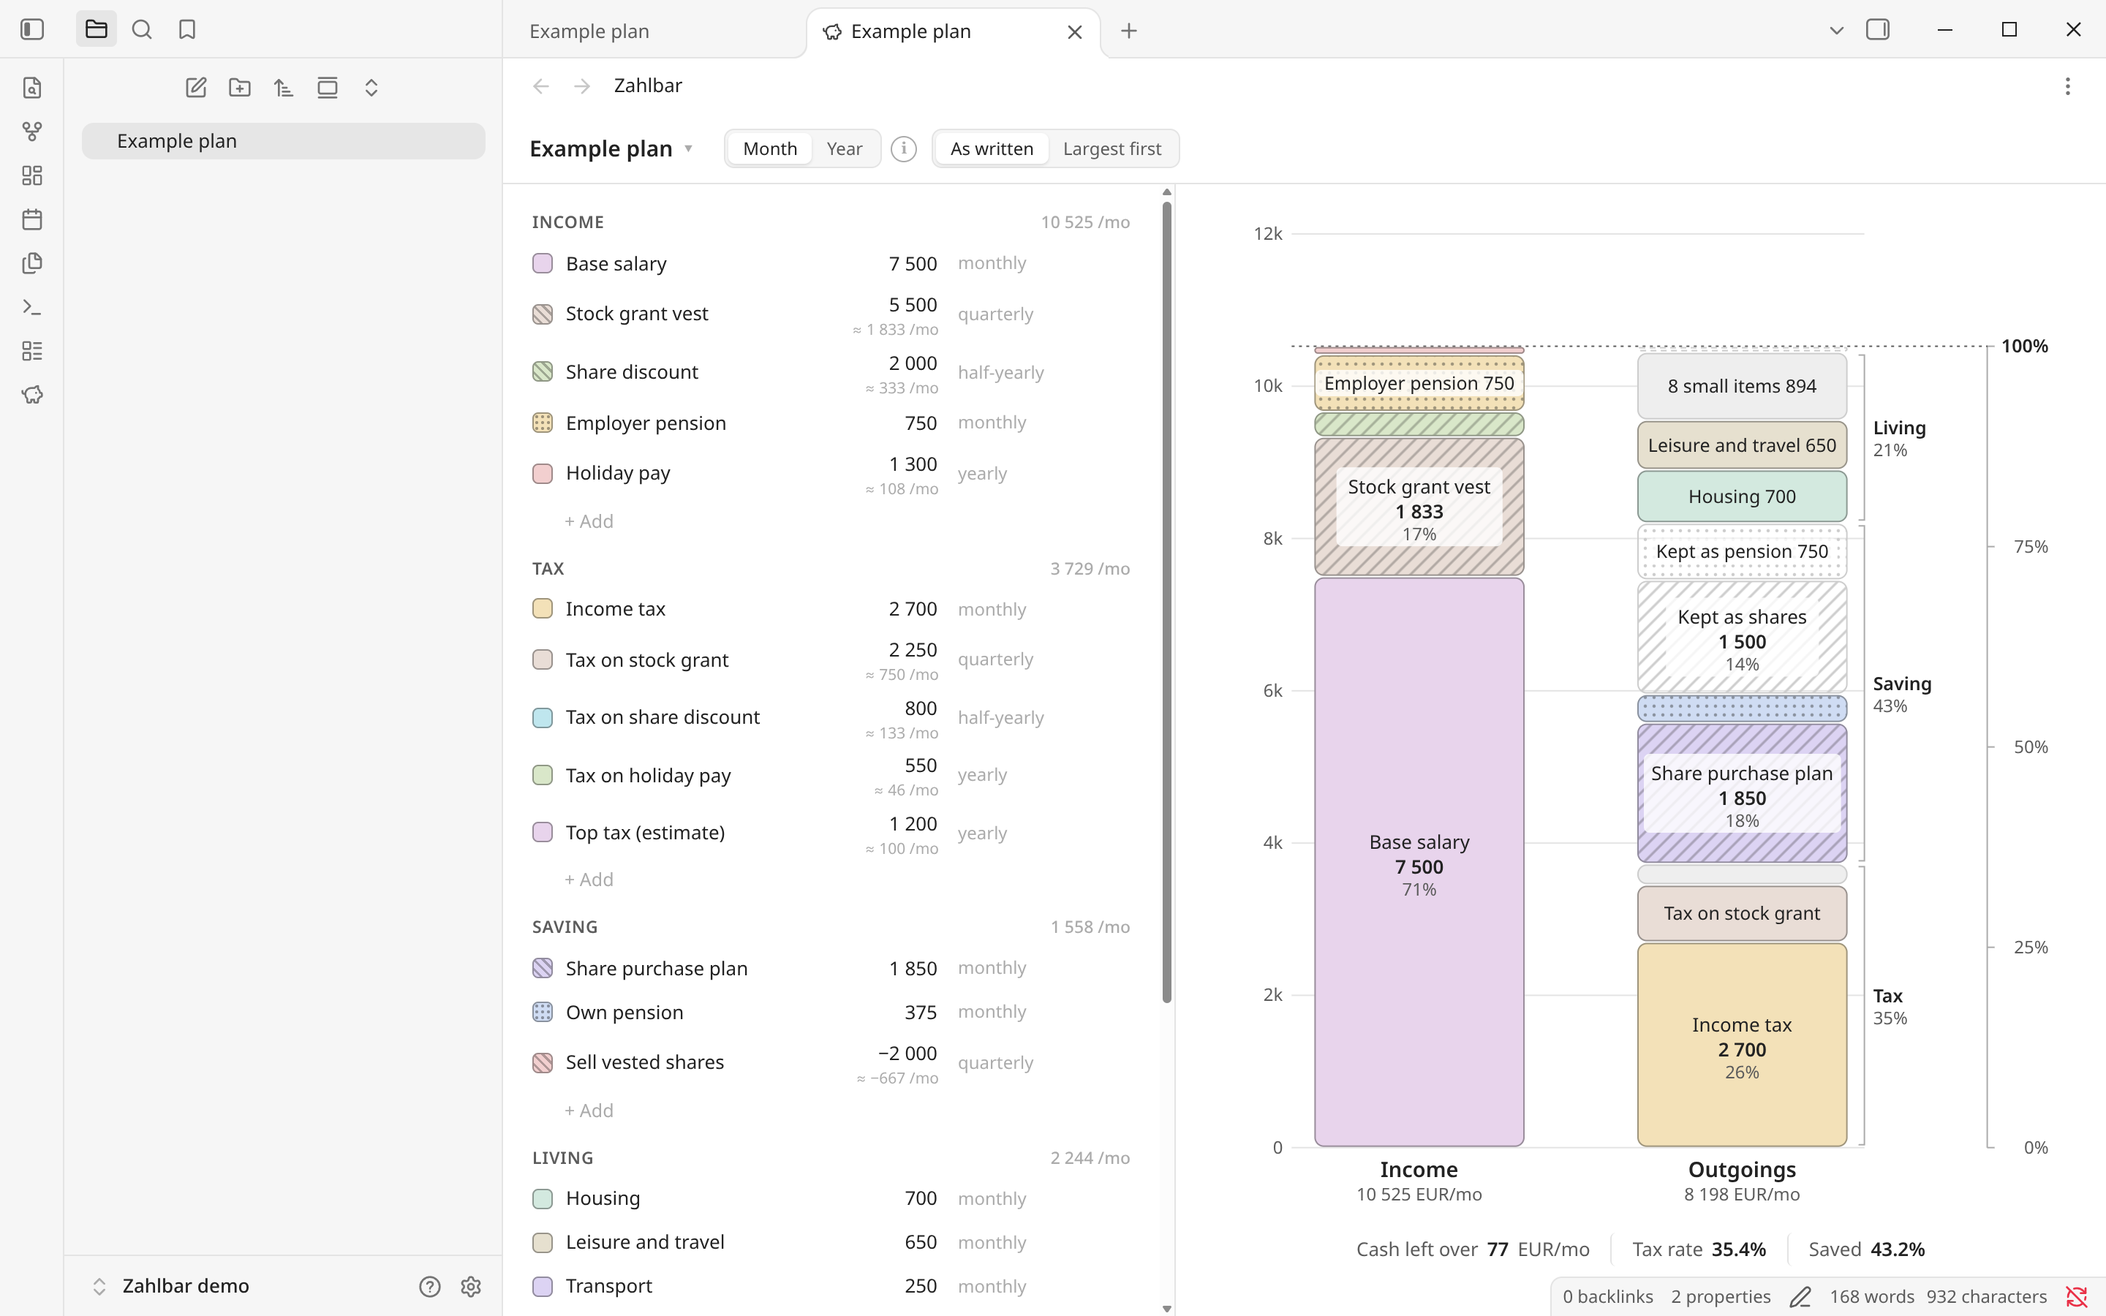
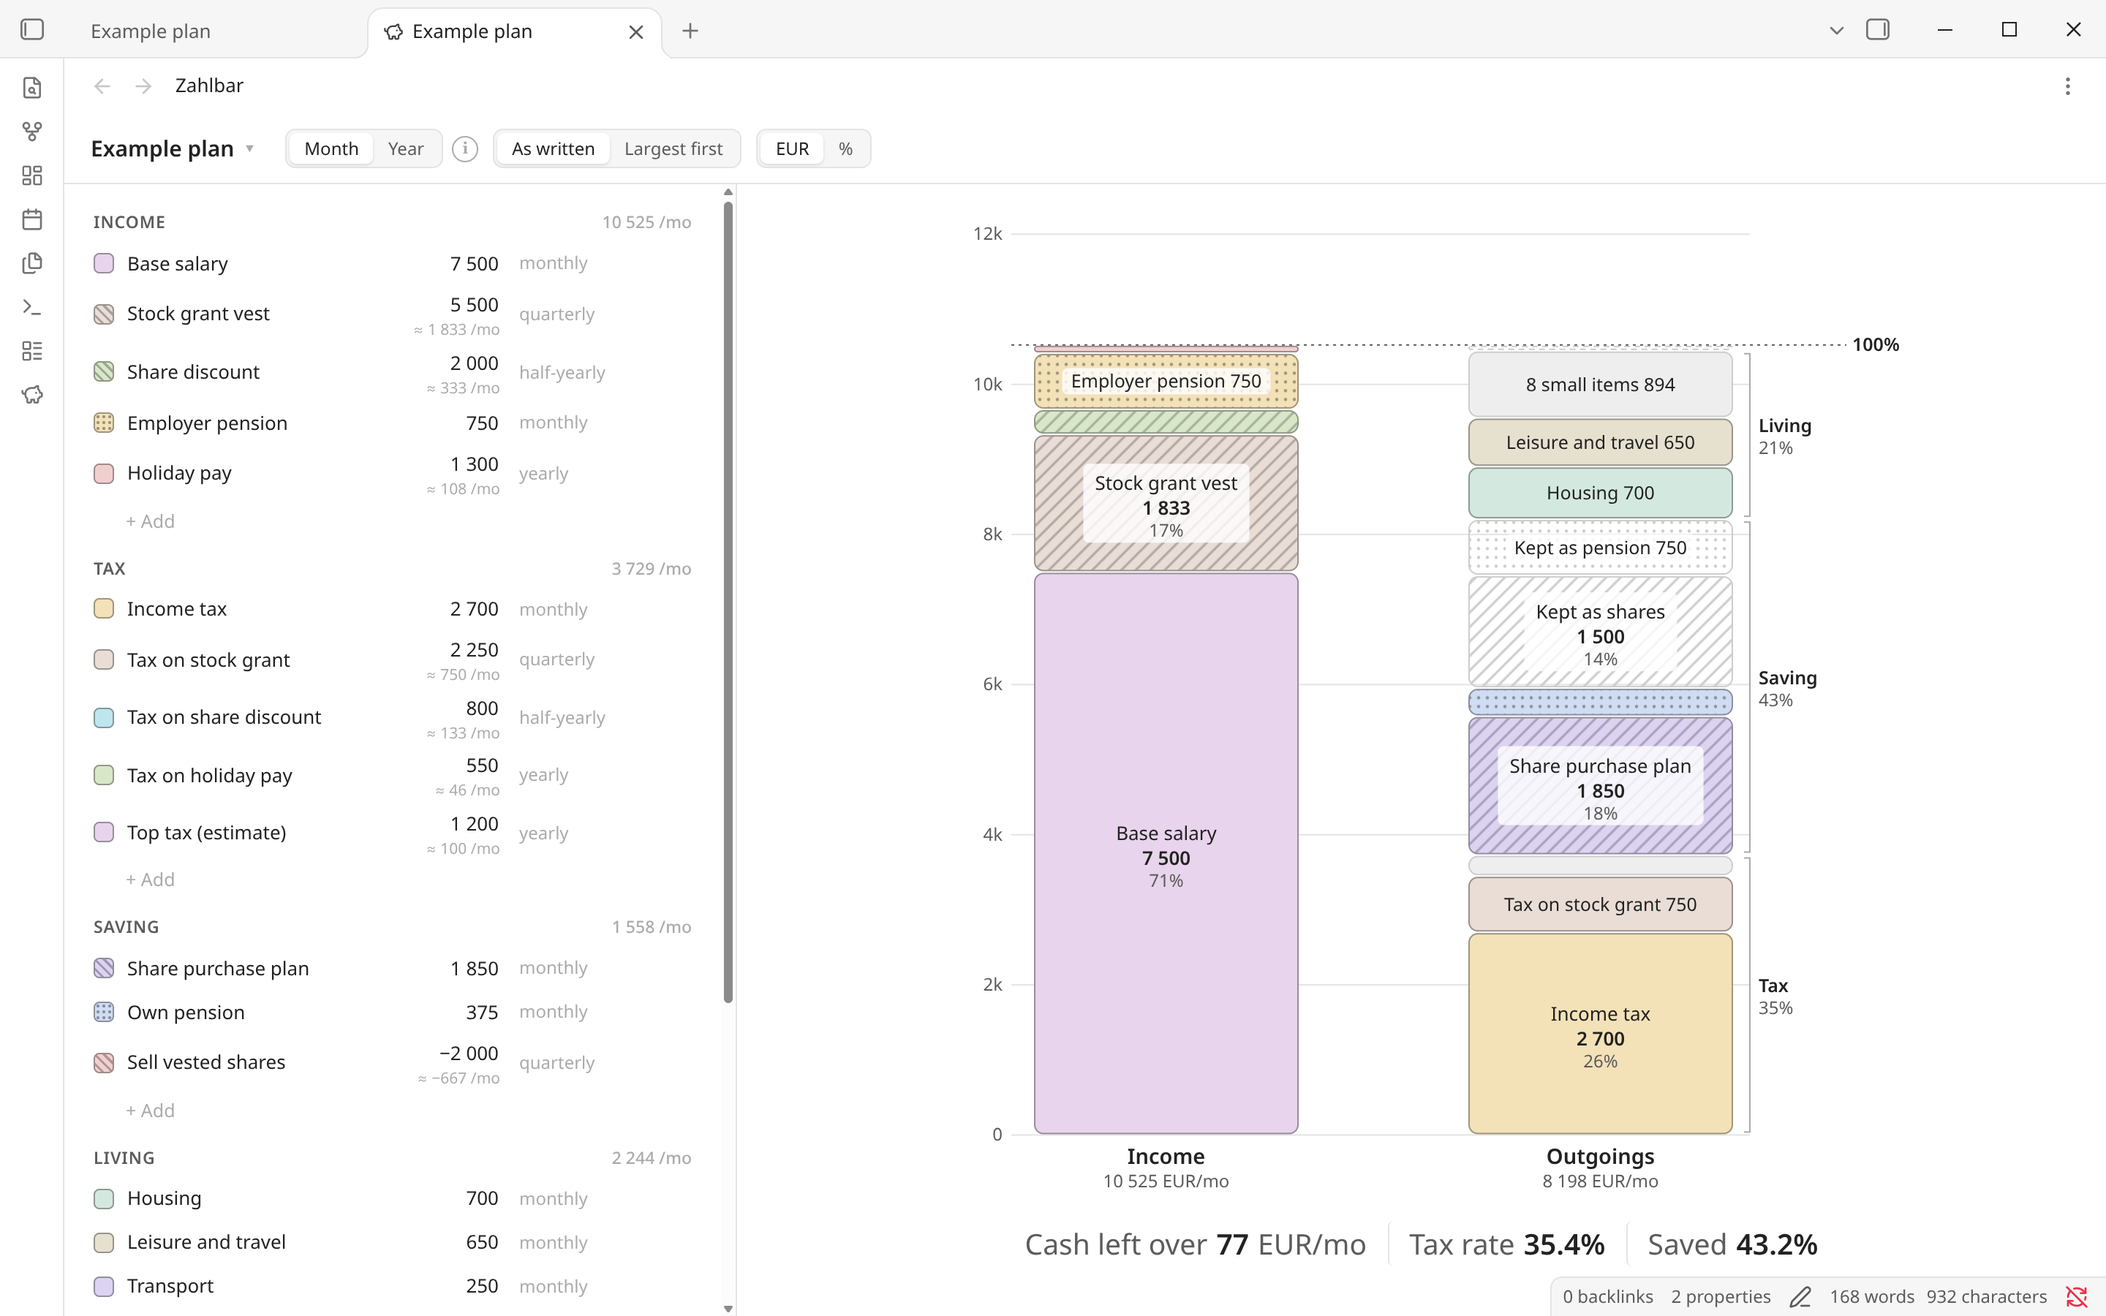
Amount | % scale toggle replaces the second axis, bigger metrics, screenshots without the sidebar

diff --git a/src/obsidian/chart.ts b/src/obsidian/chart.ts
@@ -1,4 +1,4 @@
-import type { Entry, Sort, Totals, View } from "../core";
+import type { Entry, Scale, Sort, Totals, View } from "../core";
 import { formatRounded, formatTick, ordered, shown } from "../core";
 import type { ColorOf } from "./colors";
 import { borderVar, fillVar } from "./colors";
@@ -34,6 +34,7 @@ export interface ChartInput {
   totals: Totals;
   view: View;
   sort: Sort;
+  scale: Scale;
   /** from the note's frontmatter, shown with totals only */
   currency: string | undefined;
   /** unique per view, so pattern ids don't clash between two open panes */
@@ -101,16 +102,21 @@ export function drawChart(svg: SVGSVGElement, input: ChartInput, W: number, Hbox
   const top = 22, bottom = Hbox - 40, H = bottom - top;
   const bw = Math.max(80, Math.min(180, W / 4.2));
   const gap = Math.max(32, Math.min(140, W * 0.13));
-  // lay out from the axis labels to the % labels, then centre that block in the available width
-  const content = 40 + 16 + bw + gap + bw + 8 + 130;
+  // lay out from the axis labels to the group labels, then centre that block in the available width
+  const content = 40 + 16 + bw + gap + bw + 8 + 100;
   const axL = 40 + Math.max(0, (W - content) / 2);
   const b1x = axL + 16, b2x = b1x + bw + gap, brx = b2x + bw + 8;
-  const pctX = Math.min(W, brx + 130);
-  const pctAxis = pctX - 42;
+  const refEnd = Math.min(W - 40, brx + 70);
   const T1 = s1.reduce((a, x) => a + x.v, 0), T2 = s2.reduce((a, x) => a + x.v, 0);
   const M = Math.max(T1, T2, 1);
-  const step = niceStep(M, H);
-  const axisMax = Math.ceil(M / step) * step;
+  // in percent mode the steps are tidy percentages of income, otherwise tidy amounts
+  const pctMode = input.scale === "percent" && T.income > 0;
+  const toPct = (v: number) => (v / T.income) * 100;
+  const stepP = pctMode ? niceStep(toPct(M), H) : 0;
+  const step = pctMode ? (stepP / 100) * T.income : niceStep(M, H);
+  // a hair of rounding (bars summing to 100.0000001%) mustn't add a whole empty step on top
+  const up = (x: number) => Math.ceil(x - 1e-6);
+  const axisMax = pctMode ? ((up(toPct(M) / stepP) * stepP) / 100) * T.income : up(M / step) * step;
   const k = H / axisMax;
   const y = (v: number) => bottom - v * k;
   s1 = mergeSmall(s1, k);
@@ -134,18 +140,12 @@ export function drawChart(svg: SVGSVGElement, input: ChartInput, W: number, Hbox
   // index × step rather than repeated addition, which drifts (0.1 + 0.2 = 0.30000000000000004)
   for (let i = 0, v = 0; v <= axisMax + step / 2; i++, v = i * step) {
     svg.append(s("line", { class: "zahlbar-grid", x1: axL, x2: brx + 4, y1: y(v), y2: y(v) }));
-    svg.append(s("text", { class: "zahlbar-faint", x: axL - 6, y: y(v) + 4, "text-anchor": "end" }, formatTick(v)));
+    svg.append(s("text", { class: "zahlbar-faint", x: axL - 6, y: y(v) + 4, "text-anchor": "end" }, pctMode ? `${Math.round(i * stepP)}%` : formatTick(v)));
   }
   if (T.income > 0) {
-    // the % scale doesn't line up with the kr grid, so it gets its own axis line and short ticks instead of gridlines
-    const pctTop = Math.floor((axisMax / T.income) * 4) * 25;
-    svg.append(s("line", { class: "zahlbar-axis", x1: pctAxis, x2: pctAxis, y1: y(0), y2: y((pctTop / 100) * T.income) }));
-    for (let p = 0; p <= pctTop; p += 25) {
-      const py = y((p / 100) * T.income);
-      svg.append(s("line", { class: "zahlbar-axis", x1: pctAxis, x2: pctAxis + 5, y1: py, y2: py }));
-      svg.append(s("text", { class: p === 100 ? "zahlbar-bold zahlbar-small" : "zahlbar-faint", x: pctX, y: py + 4, "text-anchor": "end" }, `${p}%`));
-    }
-    svg.append(s("line", { class: "zahlbar-ref", x1: axL, x2: pctAxis, y1: y(T.income), y2: y(T.income) }));
+    // where income ends: everything above this line on Outgoings is more than comes in
+    svg.append(s("line", { class: "zahlbar-ref", x1: axL, x2: refEnd, y1: y(T.income), y2: y(T.income) }));
+    svg.append(s("text", { class: "zahlbar-bold zahlbar-small", x: refEnd + 4, y: y(T.income) + 4 }, "100%"));
   }
 
   const per = `${input.currency ?? ""}${view === "month" ? "/mo" : "/y"}`;
@@ -153,10 +153,11 @@ export function drawChart(svg: SVGSVGElement, input: ChartInput, W: number, Hbox
     svg.append(s("text", { class: "zahlbar-bold zahlbar-title", x: x + bw / 2, y: bottom + 20, "text-anchor": "middle" }, name));
     svg.append(s("text", { class: "zahlbar-faint", x: x + bw / 2, y: bottom + 36, "text-anchor": "middle" }, sub));
   };
-  title(b1x, "Income", `${formatRounded(T.income)} ${per}`);
+  const share = (v: number) => `${T.income > 0 ? Math.round(toPct(v)) : 0}%`;
+  title(b1x, "Income", pctMode ? "100%" : `${formatRounded(T.income)} ${per}`);
   // money taken out of saving isn't spending less, so the title only counts what goes out
   const goingOut = visible.filter((e) => e.section !== "income" && e.amount > 0).reduce((a, e) => a + shown(e, view), 0);
-  title(b2x, "Outgoings", `${formatRounded(goingOut)} ${per}`);
+  title(b2x, "Outgoings", pctMode ? share(goingOut) : `${formatRounded(goingOut)} ${per}`);
 
   const family = getComputedStyle(svg).getPropertyValue("--font-interface").trim() || getComputedStyle(svg).fontFamily || "sans-serif";
   const width = (t: string, px = 13, bold = false) => textWidth(t, px, bold, family);
@@ -182,15 +183,18 @@ export function drawChart(svg: SVGSVGElement, input: ChartInput, W: number, Hbox
       const pct = T.income > 0 ? Math.round((sg.v / T.income) * 100) : 0;
       const err = sg.kind === "short" ? "zahlbar-error" : "";
       const plate = sg.texture !== "none";
+      // the main figure follows the scale: the amount, or its share of income. The other one goes underneath.
+      const main = pctMode ? `${pct}%` : formatRounded(sg.v);
+      const second = pctMode ? formatRounded(sg.v) : `${pct}%`;
       if (gh >= 56 && fits(sg.name)) {
-        const pw = Math.min(bw - 8, Math.max(width(sg.name), width(formatRounded(sg.v), 13, true), 50) + 16);
+        const pw = Math.min(bw - 8, Math.max(width(sg.name), width(main, 13, true), 50) + 16);
         if (plate) g.append(s("rect", { class: "zahlbar-plate", x: cx - pw / 2, y: gy + gh / 2 - 27, width: pw, height: 54, rx: 4 }));
         g.append(s("text", { x: cx, y: gy + gh / 2 - 9, "text-anchor": "middle", class: err }, sg.name));
-        g.append(s("text", { x: cx, y: gy + gh / 2 + 8, "text-anchor": "middle", class: `zahlbar-bold ${err}` }, formatRounded(sg.v)));
-        g.append(s("text", { x: cx, y: gy + gh / 2 + 23, "text-anchor": "middle", class: "zahlbar-faint" }, `${pct}%`));
+        g.append(s("text", { x: cx, y: gy + gh / 2 + 8, "text-anchor": "middle", class: `zahlbar-bold ${err}` }, main));
+        g.append(s("text", { x: cx, y: gy + gh / 2 + 23, "text-anchor": "middle", class: "zahlbar-faint" }, second));
       } else if (gh >= 20) {
-        let t = `${sg.name} ${formatRounded(sg.v)}`;
-        if (!fits(t, 12.5)) t = fits(sg.name, 12.5) ? sg.name : formatRounded(sg.v);
+        let t = `${sg.name} ${main}`;
+        if (!fits(t, 12.5)) t = fits(sg.name, 12.5) ? sg.name : main;
         const tw = width(t, 12.5);
         if (plate) g.append(s("rect", { class: "zahlbar-plate", x: cx - tw / 2 - 6, y: gy + gh / 2 - 9, width: tw + 12, height: 18, rx: 4 }));
         g.append(s("text", { x: cx, y: gy + gh / 2 + 4.5, "text-anchor": "middle", class: `zahlbar-small ${err}` }, t));
@@ -217,7 +221,7 @@ export function drawChart(svg: SVGSVGElement, input: ChartInput, W: number, Hbox
     const y0 = y(g.a + g.v) + 2, y1 = y(g.a) - 2;
     if (y1 - y0 < 10) continue;
     // the area right of the bar, around the bracket and its label, highlights the whole group on hover
-    svg.append(s("rect", { class: "zahlbar-grouphit", x: b2x + bw + 2, y: y0 - 1, width: Math.max(0, pctAxis - 6 - (b2x + bw + 2)), height: y1 - y0 + 2, "data-ids": g.ids.join(" ") }));
+    svg.append(s("rect", { class: "zahlbar-grouphit", x: b2x + bw + 2, y: y0 - 1, width: Math.max(0, refEnd - (b2x + bw + 2)), height: y1 - y0 + 2, "data-ids": g.ids.join(" ") }));
     svg.append(s("path", { class: "zahlbar-bracket", d: `M${brx} ${y0} h4 V${y1} h-4` }));
     svg.append(s("text", { x: brx + 10, y: (y0 + y1) / 2 - 2, class: "zahlbar-bold zahlbar-small" }, GROUP_NAMES[g.key] ?? g.key));
     svg.append(s("text", { x: brx + 10, y: (y0 + y1) / 2 + 13, class: "zahlbar-faint" }, `${T.income > 0 ? Math.round((g.v / T.income) * 100) : 0}%`));

diff --git a/src/obsidian/view.ts b/src/obsidian/view.ts
@@ -1,6 +1,6 @@
 import { ItemView, Menu, Notice, TFile } from "obsidian";
 import type { ViewStateResult, WorkspaceLeaf } from "obsidian";
-import type { Entry, EntryPatch, EntryRef, Plan, Section, Sort, View } from "../core";
+import type { Entry, EntryPatch, EntryRef, Plan, Scale, Section, Sort, View } from "../core";
 import {
   addEntry, formatAmount, formatRounded, freqLabel, moveEntry, parse, removeEntry, setMeta, shown, StaleError, totals, updateEntry
 } from "../core";
@@ -45,6 +45,7 @@ export class ZahlbarView extends ItemView implements ListHost {
   plan: Plan = parse("");
   view: View = "month";
   sort: Sort = "manual";
+  scale: Scale = "amount";
   hoverId: string | null = null;
   focusNext: Focus | null = null;
   /** segments to keep highlighted while a breakdown is open */
@@ -66,6 +67,7 @@ export class ZahlbarView extends ItemView implements ListHost {
     pick: HTMLButtonElement;
     viewCtl: HTMLElement;
     sortCtl: HTMLElement;
+    scaleCtl: HTMLElement;
     tip: HTMLElement;
     body: HTMLElement;
     empty: HTMLElement;
@@ -144,6 +146,7 @@ export class ZahlbarView extends ItemView implements ListHost {
     this.colorOf = colorMap(this.plan.entries);
     this.view = this.plan.view;
     this.sort = this.plan.sort;
+    this.scale = this.plan.scale;
     this.render();
   }
 
@@ -241,9 +244,10 @@ export class ZahlbarView extends ItemView implements ListHost {
     void this.app.workspace.getLeaf("tab").openFile(this.file, { eState: { line } });
   }
 
-  private setMetaKey(key: "view" | "sort", value: string): void {
+  private setMetaKey(key: "view" | "sort" | "scale", value: string): void {
     if (key === "view") this.view = value as View;
-    else this.sort = value as Sort;
+    else if (key === "sort") this.sort = value as Sort;
+    else this.scale = value as Scale;
     this.renderPlan();
     void this.write((t) => setMeta(t, key, value));
   }
@@ -262,7 +266,10 @@ export class ZahlbarView extends ItemView implements ListHost {
     const info = h("button", { class: "zahlbar-info", "aria-label": "How amounts are shown" }, tip);
     const sortCtl = this.segmented([["manual", "As written"], ["amount", "Largest first"]], (v) => this.setMetaKey("sort", v));
     sortCtl.setAttribute("title", "Display order. The note keeps its own order.");
-    root.append(h("div", { class: "zahlbar-head" }, pick, viewCtl, info, sortCtl));
+    // amounts or shares of income on the chart. The first button is labelled with the plan's currency.
+    const scaleCtl = this.segmented([["amount", "Amount"], ["percent", "%"]], (v) => this.setMetaKey("scale", v));
+    scaleCtl.setAttribute("title", "Show the chart in amounts or as % of income");
+    root.append(h("div", { class: "zahlbar-head" }, pick, viewCtl, info, sortCtl, scaleCtl));
 
     const list = h("div", { class: "zahlbar-list" });
     const chartBox = h("div", { class: "zahlbar-chartbox" });
@@ -282,7 +289,7 @@ export class ZahlbarView extends ItemView implements ListHost {
     });
     const empty = h("div", { class: "zahlbar-empty" });
     root.append(body, empty);
-    this.ui = { pick, viewCtl, sortCtl, tip, body, empty, list, chartBox, svg, metrics, tooltip };
+    this.ui = { pick, viewCtl, sortCtl, scaleCtl, tip, body, empty, list, chartBox, svg, metrics, tooltip };
 
     this.resize = new ResizeObserver(() => this.drawChart());
     this.resize.observe(chartBox);
@@ -466,7 +473,11 @@ export class ZahlbarView extends ItemView implements ListHost {
   }
 
   private renderPlan(): void {
-    const { viewCtl, sortCtl, tip, list } = this.ui;
+    const { viewCtl, sortCtl, scaleCtl, tip, list } = this.ui;
+    for (const b of Array.from(scaleCtl.children)) {
+      b.classList.toggle("is-on", b.getAttribute("data-v") === this.scale);
+      if (b.getAttribute("data-v") === "amount") b.textContent = this.plan.currency ?? "Amount";
+    }
     for (const b of Array.from(viewCtl.children)) b.classList.toggle("is-on", b.getAttribute("data-v") === this.view);
     for (const b of Array.from(sortCtl.children)) b.classList.toggle("is-on", b.getAttribute("data-v") === this.sort);
     tip.textContent = this.view === "month"
@@ -499,7 +510,7 @@ export class ZahlbarView extends ItemView implements ListHost {
   private drawChart(): void {
     if (!this.ui || !this.file || !this.plan.flagged) return;
     const box = this.ui.chartBox;
-    this.groupIds = drawChart(this.ui.svg, { entries: this.plan.entries, totals: totals(this.plan.entries, this.view), view: this.view, sort: this.sort, uid: this.uid, colorOf: this.colorOf, currency: this.plan.currency },
+    this.groupIds = drawChart(this.ui.svg, { entries: this.plan.entries, totals: totals(this.plan.entries, this.view), view: this.view, sort: this.sort, scale: this.scale, uid: this.uid, colorOf: this.colorOf, currency: this.plan.currency },
       box.clientWidth, box.clientHeight);
     this.applyHover();
   }

diff --git a/styles.css b/styles.css
@@ -114,7 +114,7 @@ body.zahlbar-grabbing, body.zahlbar-grabbing * { cursor: grabbing !important; us
 .zahlbar .zahlbar-badline { background: none; border: 0; height: auto; padding: 0; font-family: var(--font-monospace); font-size: 12px; color: var(--text-error); text-align: left; }
 
 /* chart */
-.zahlbar-chart text { fill: var(--text-normal); font-size: 13px; font-family: var(--font-interface); }
+.zahlbar-chart text { fill: var(--text-normal); font-size: 13px; font-family: var(--font-interface); pointer-events: none; }
 .zahlbar-chart .zahlbar-faint { fill: var(--text-muted); font-size: 12px; }
 .zahlbar-chart .zahlbar-bold { font-weight: 600; }
 .zahlbar-chart .zahlbar-small { font-size: 12.5px; }
@@ -125,12 +125,12 @@ body.zahlbar-grabbing, body.zahlbar-grabbing * { cursor: grabbing !important; us
 .zahlbar-chart .zahlbar-error { fill: var(--text-error); }
 .zahlbar-chart .zahlbar-grid { stroke: var(--background-modifier-border); stroke-width: 1; }
 .zahlbar-chart .zahlbar-ref { stroke: var(--text-muted); stroke-dasharray: 2 3; }
-.zahlbar-chart .zahlbar-bracket { stroke: var(--text-faint); fill: none; }
+.zahlbar-chart .zahlbar-bracket { stroke: var(--text-faint); fill: none; pointer-events: none; }
 .zahlbar-chart .zahlbar-plate { fill: var(--background-primary); opacity: 0.8; }
 .zahlbar-chart .zahlbar-seg { cursor: pointer; transition: opacity 0.12s; }
 .zahlbar-chart.is-dimming .zahlbar-seg:not(.is-hl) { opacity: 0.35; }
 /* one quiet line, label then value, like Obsidian's properties. Bottom padding keeps it clear of the status bar. */
-.zahlbar-metrics { display: flex; flex-wrap: wrap; justify-content: center; row-gap: 4px; padding: 10px 22px 34px; font-size: var(--font-ui-small); }
+.zahlbar-metrics { display: flex; flex-wrap: wrap; justify-content: center; row-gap: 4px; padding: 10px 22px 34px; font-size: calc(var(--font-ui-small) * 1.5); }
 .zahlbar-metric { display: flex; align-items: baseline; gap: 6px; padding: 3px 14px; border-left: 1px solid var(--background-modifier-border); border-radius: 4px; cursor: default; }
 .zahlbar-metric:first-child { border-left: 0; }
 .zahlbar-metric:hover { background: var(--background-modifier-hover); }

diff --git a/src/core/parse.ts b/src/core/parse.ts
@@ -1,5 +1,5 @@
 import { MONTHLY, parseAmount, parseFreq } from "./format";
-import type { BadLine, Color, Entry, Form, Plan, Section, Sort, View } from "./model";
+import type { BadLine, Color, Entry, Form, Plan, Scale, Section, Sort, View } from "./model";
 import { PALETTE, SECTIONS } from "./model";
 
 const HEADING = /^(#{1,6})\s+(.+?)\s*#*\s*$/;
@@ -63,6 +63,7 @@ export function parse(text: string): Plan {
   const fm = readFrontmatter(lines);
   const view: View = fm.keys.get("view") === "year" ? "year" : "month";
   const sort: Sort = fm.keys.get("sort") === "amount" ? "amount" : "manual";
+  const scale: Scale = fm.keys.get("scale") === "percent" ? "percent" : "amount";
   const plan: Plan = {
     lines,
     eol,
@@ -71,6 +72,7 @@ export function parse(text: string): Plan {
     currency: fm.keys.get("currency") || undefined,
     view,
     sort,
+    scale,
     entries: [],
     bad: [],
     headings: {}

diff --git a/src/core/model.ts b/src/core/model.ts
@@ -20,6 +20,8 @@ export type Color = (typeof PALETTE)[number];
 
 export type View = "month" | "year";
 export type Sort = "manual" | "amount";
+/** what the chart's axis and labels show: amounts, or shares of income */
+export type Scale = "amount" | "percent";
 
 export interface Entry {
   /** 0-based line in the note, also the entry's identity until the next parse */
@@ -55,6 +57,7 @@ export interface Plan {
   currency: string | undefined;
   view: View;
   sort: Sort;
+  scale: Scale;
   entries: Entry[];
   bad: BadLine[];
   /** line of the first heading for each section present in the note */

diff --git a/FORMAT.md b/FORMAT.md
@@ -12,10 +12,11 @@ zahlbar: 1
 currency: DKK      # optional, shown with totals (e.g. "64 500 DKK/mo")
 view: month        # optional: month | year
 sort: manual       # optional: manual | amount
+scale: amount      # optional: amount | percent
 ---
 ```
 
-`view` and `sort` are display preferences. The plugin writes them when you use its toggles.
+`view`, `sort` and `scale` are display preferences. The plugin writes them when you use its toggles.
 
 ## Sections
 
